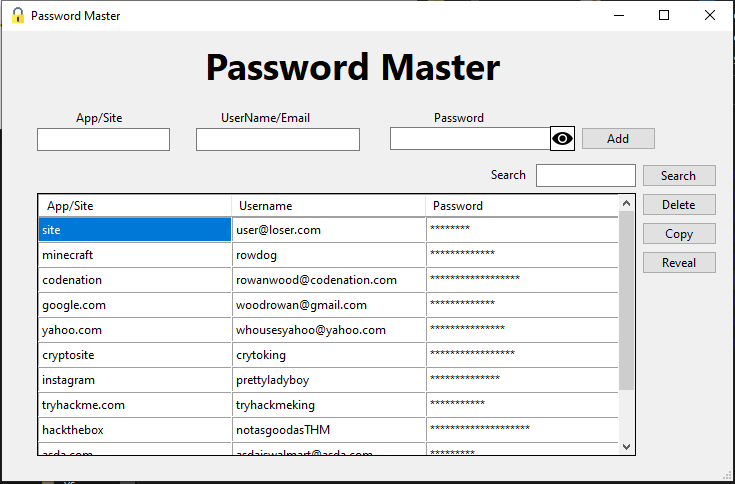
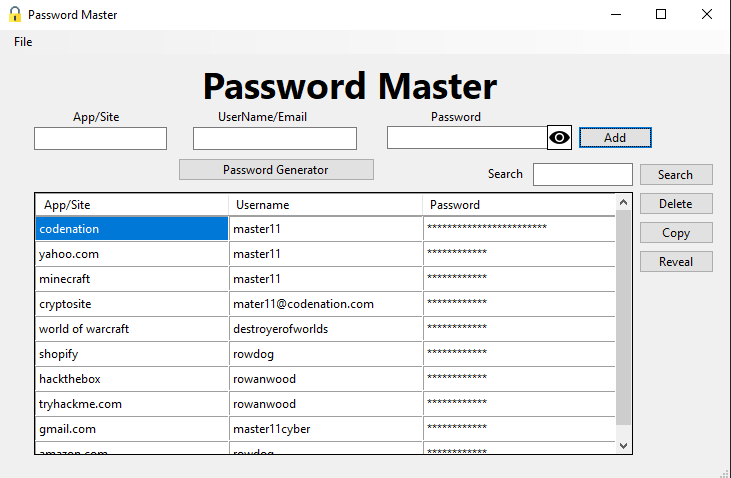
updated readme to reflect 1.0.2 updates

diff --git a/README.md b/README.md
@@ -4,21 +4,35 @@
 
 This is a simple password manager that uses a master password to encrypt and decrypt passwords. It is written in C# and uses the .NET Framework 4.7.2.
 
+## Requirements
+
+Before running this application, please make sure you have the following prerequisites installed:
+
+- [.NET 6.0](https://dotnet.microsoft.com/en-us/download/dotnet/6.0)
+
 ## Usage
 
 ### Adding a password
 
-To add a password enter the credentials and press Enter or the "Add" button. The password will be encrypted and saved to the database.
+To add a password, enter the credentials and press Enter or the "Add" button. The password will be encrypted and saved to the database.
 
 ### Removing a password
 
-To remove a account/password select the password from the list and press the "Remove" button. The password will be removed from the database.
+To remove an account/password, select the password from the list and press the "Remove" button. The password will be removed from the database.
 
 ### Copying/revealing a password
 
-To copy a password to the clipboard select the password from the list and press the "Copy" button. The password will be copied to the clipboard. To reveal a password select the password from the list and press the "Reveal" button. The password will be revealed in the password field.
+To copy a password to the clipboard, select the password from the list and press the "Copy" button. The password will be copied to the clipboard. To reveal a password, select the password from the list and press the "Reveal" button. The password will be revealed in the password field.
 
-### screenshots of the program
+### Generating a secure random password
+
+To generate a secure random password, press the "Password Generator" button. A new window will appear. Enter the length of the password tick the box if you want to include special characters the special characters included can be removed from the inputbox below the checkbox. Press the "Generate" button to generate a password. Press the "Copy" button to copy the password to the clipboard. Press the "Close" button to close the window.
+
+### Changing the master password
+
+to change the master password select file on the menu bar and press the "Change Master Password" button. A new window will appear. Enter the old master password and the new master password. Press the "Change" button to change the master password. Press the "Close" button to close the window.
+
+### Screenshots of the program
 
 **Entering the master password**
 
@@ -27,7 +41,6 @@ To copy a password to the clipboard select the password from the list and press 
 **The main window**
 
 ![image](./PasswordManager/images/masterpassword2.png)
-
 
 **Generating a secure random password**
 
